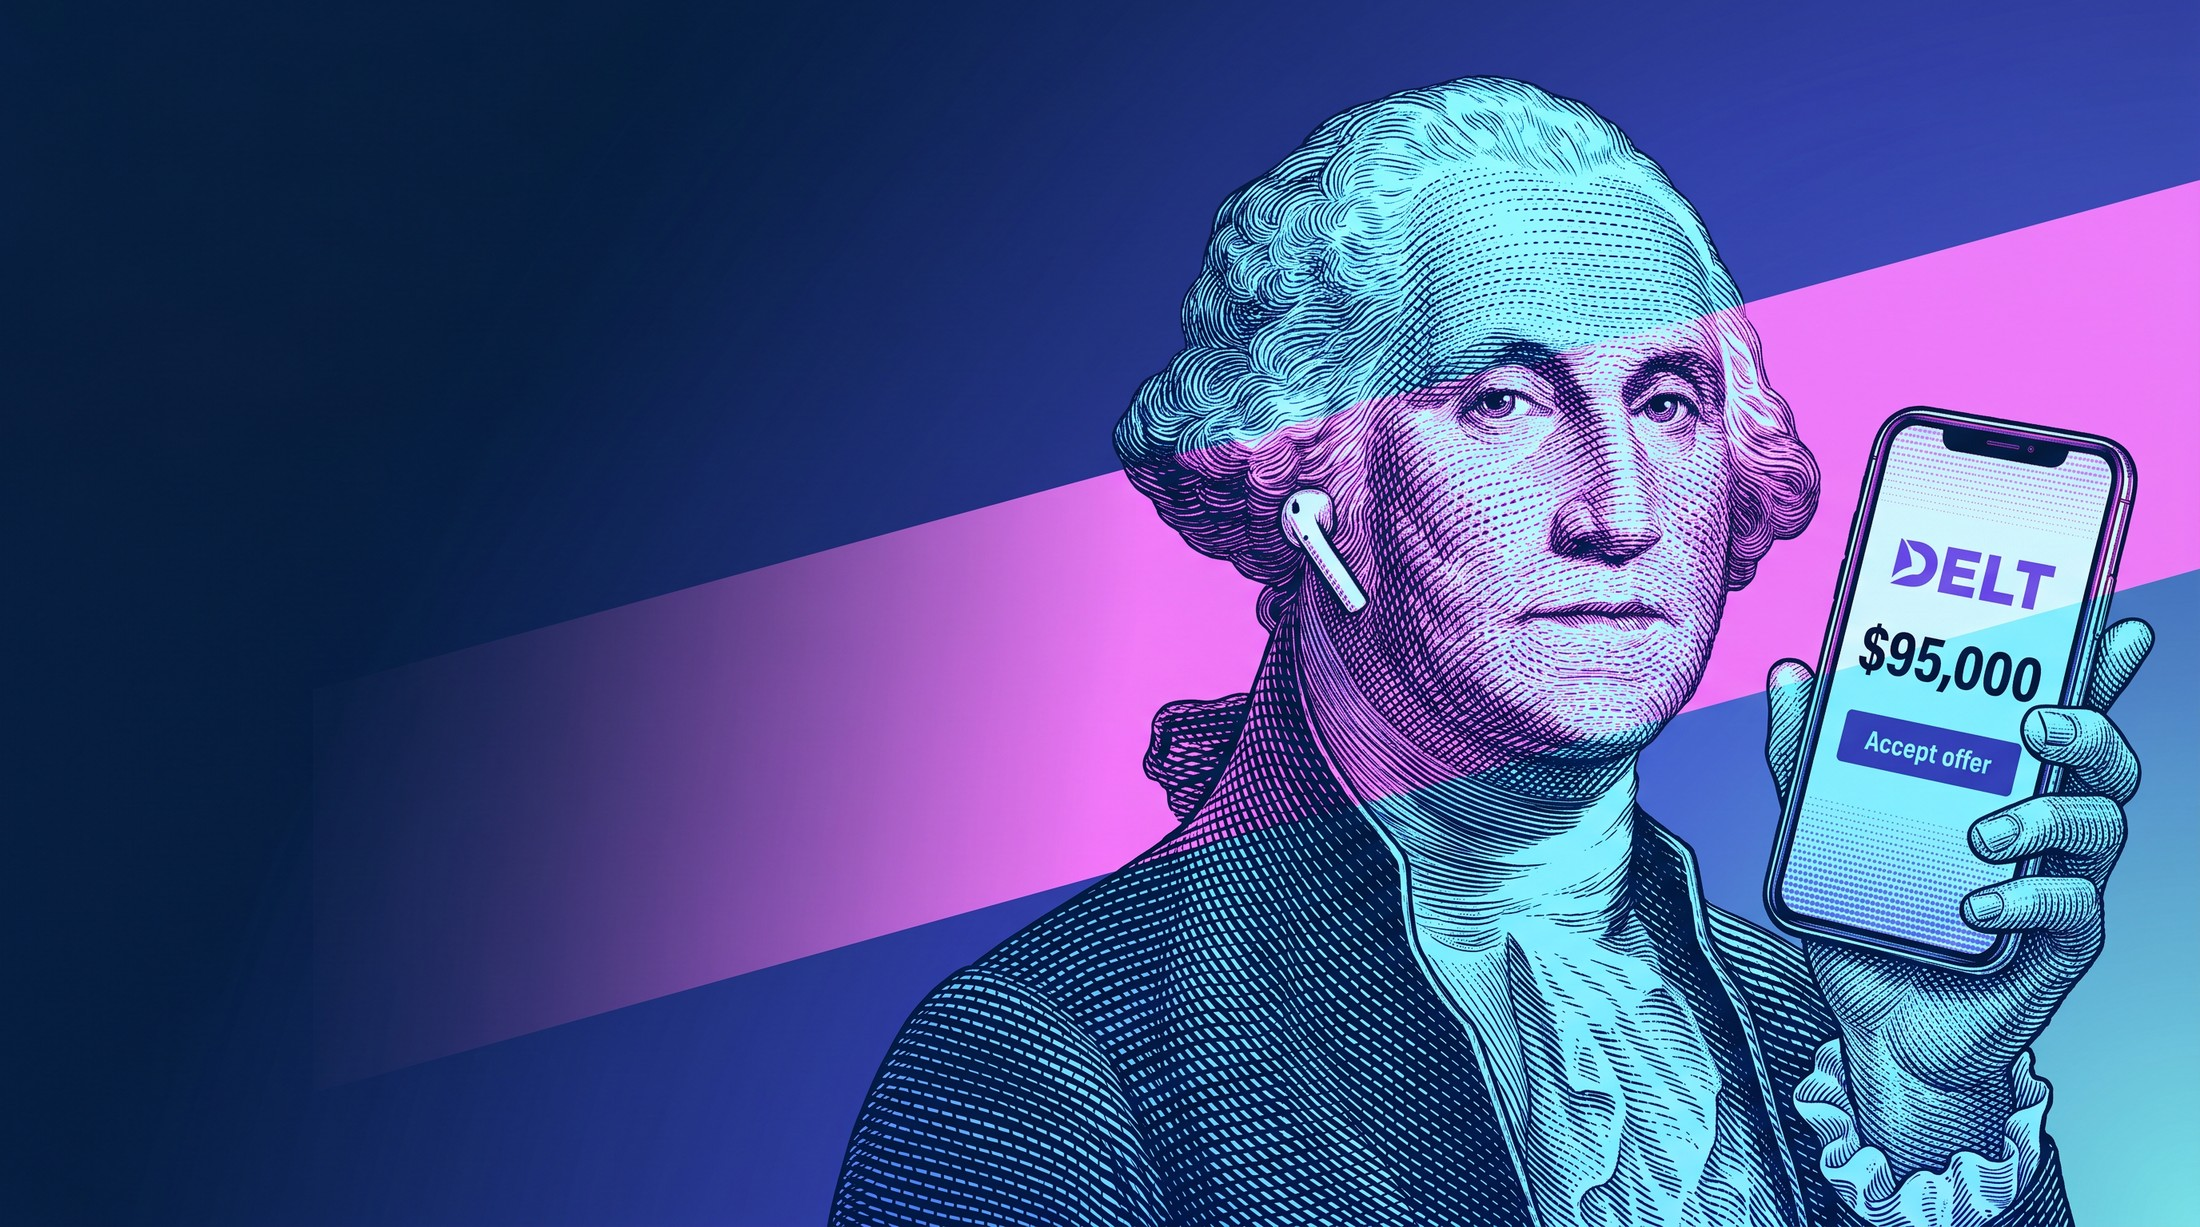
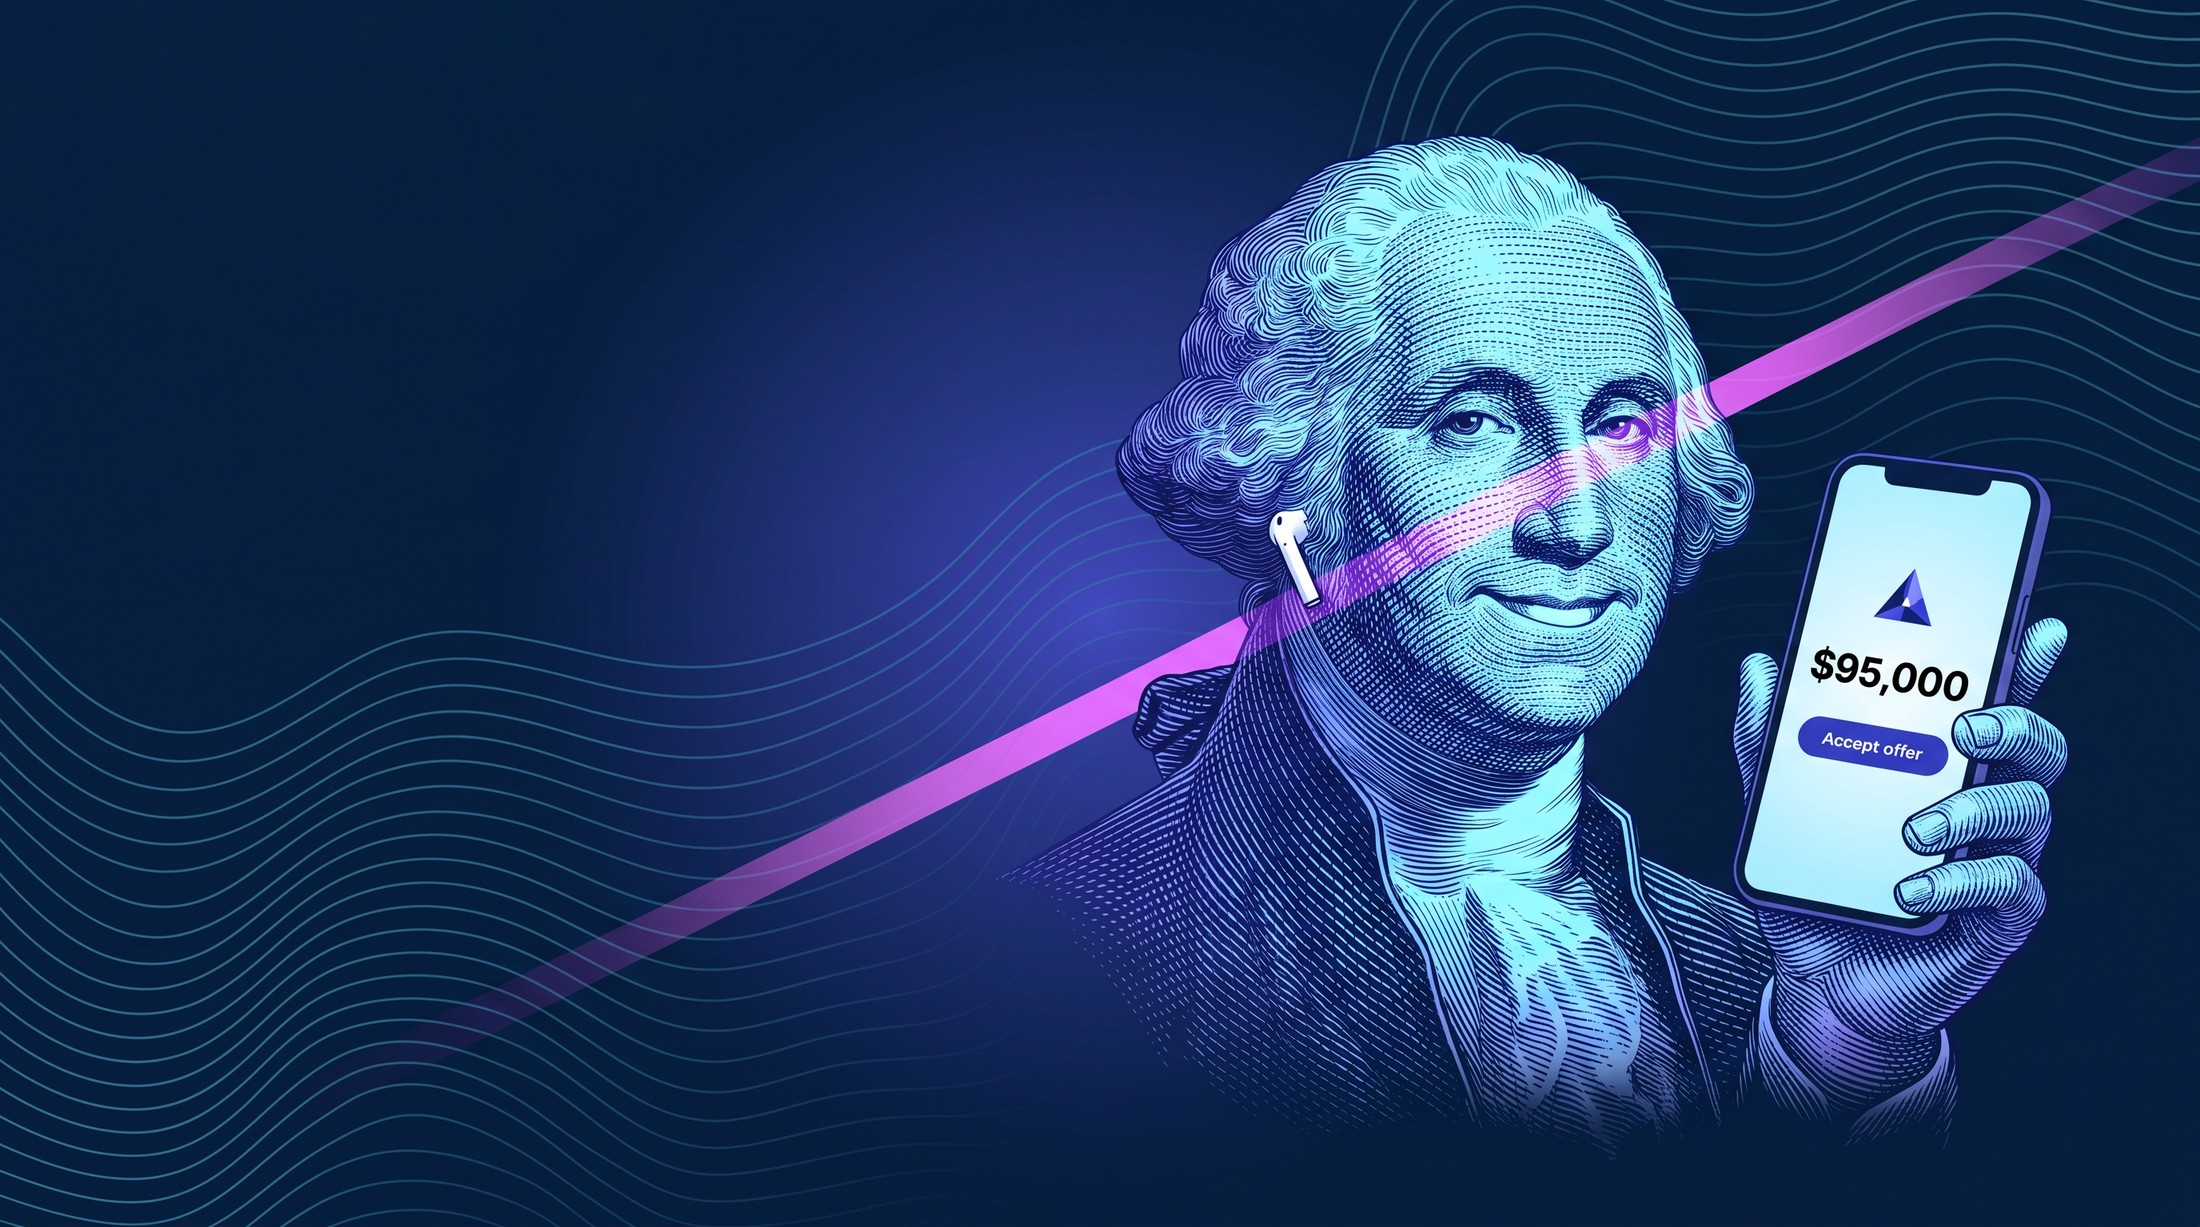
Hero: cohesive Washington composite (smile, cleaner phone, unified bg)
Replace hero background with a single Nano Banana Pro composite where
Washington's engraving is painted directly onto the navy hero field
with the magenta color-shift band and topography contour lines flowing
across the entire canvas. Removes the bifurcated left/right panel feel
so figure and background are one continuous scene.

- Washington smiles warmly (was neutral)
- Phone screen shows only an abstract mark + $95,000 + Accept offer
  (no confusing DELT wordmark)
- Section uses backgroundImage cover; all cutout/SVG/blend layers removed

diff --git a/app/variation-1.jsx b/app/variation-1.jsx
@@ -203,7 +203,11 @@ function V1Hero({ accent, onApply }) {
       // Delt indigo gradient: violet/cyan glows over a deep navy → indigo
       // base. The colors echo the tones in the Washington duotone so the
       // portrait dissolves into the background instead of sitting on top.
-      background: 'linear-gradient(160deg, #041E42 0%, #0A1A6E 55%, #041E42 100%)',
+      backgroundColor: '#041E42',
+      backgroundImage: 'url(app/assets/washington-plaid.jpg)',
+      backgroundSize: 'cover',
+      backgroundPosition: 'center right',
+      backgroundRepeat: 'no-repeat',
       color: '#F7F5F0',
       position: 'relative',
       overflow: 'hidden',
@@ -319,41 +323,7 @@ function V1Hero({ accent, onApply }) {
         <div aria-hidden />
       </div>
 
-      {/* Right: Washington engraving — Plaid-parity edge-to-edge visual */}
-      <div data-v1-hero-media style={{
-        position: 'absolute',
-        right: 0, top: 0, bottom: 0,
-        width: '58%',
-        overflow: 'hidden',
-        clipPath: mounted ? 'inset(0 0 0 0)' : 'inset(0 100% 0 0)',
-        transition: 'clip-path 1100ms cubic-bezier(0.76, 0, 0.24, 1) 160ms',
-        willChange: mounted ? 'auto' : 'clip-path',
-        zIndex: 1,
-        pointerEvents: 'none',
-      }}>
-        <img
-          src="app/assets/washington-plaid.jpg"
-          alt="George Washington cross-hatch engraving in navy, indigo and cyan with a magenta color-shift band, holding an iPhone that shows a Delt Capital offer"
-          style={{
-            position: 'absolute',
-            inset: 0,
-            width: '100%',
-            height: '100%',
-            objectFit: 'cover',
-            objectPosition: 'center right',
-            transform: `translate3d(0, ${videoShift}px, 0) scale(${videoScale})`,
-            transformOrigin: 'center right',
-            willChange: 'transform',
-            display: 'block',
-          }}
-        />
-        {/* Left-edge feather ties the image into the navy copy column. */}
-        <div aria-hidden style={{
-          position: 'absolute', inset: 0,
-          background: 'linear-gradient(90deg, #041E42 0%, rgba(4,30,66,0.6) 8%, rgba(4,30,66,0) 22%)',
-          pointerEvents: 'none',
-        }} />
-      </div>
+
 
     </section>
   );
